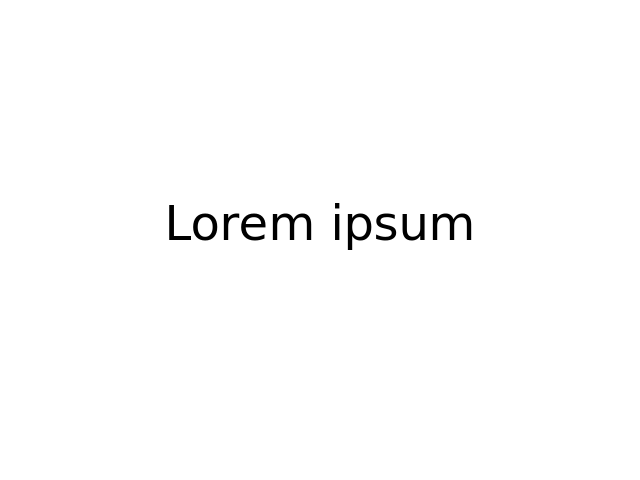
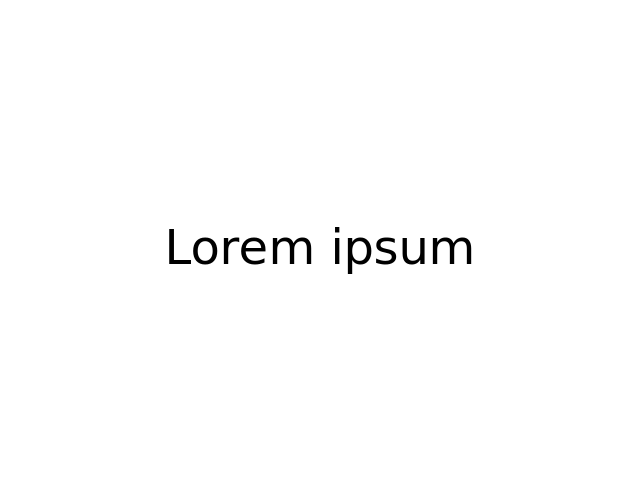
Center text, regenerate images and update README.

Changed region(s): [[0.25, 0.4375, 0.75, 0.5625]]

diff --git a/index.js b/index.js
@@ -55,14 +55,16 @@ const textColor = invertColor(options.red, options.green, options.blue)
 const canvas = createCanvas(width, height)
 const context = canvas.getContext('2d')
 
+const fontSize = height / 10
+
 context.fillStyle = color
 context.fillRect(0, 0, width, height)
 context.fillStyle = textColor
-context.font = `${height / 10}px ${options.font}`
+context.font = `${fontSize}px ${options.font}`
 
 const textSize = context.measureText(options.text)
 
-context.fillText(options.text , (canvas.width / 2) - (textSize.width / 2), (canvas.height / 2))
+context.fillText(options.text , (canvas.width / 2) - (textSize.width / 2), (canvas.height / 2) + (fontSize / 2))
 
 const buffer = canvas.toBuffer('image/png')
 fs.writeFileSync(options.output, buffer)

diff --git a/README.md b/README.md
@@ -95,12 +95,12 @@ Example
 Executing this (all-default parameters, except `--output`/`-o` or equivalent parameters for the generator function):
 
 ```bash
-generate-placeholder-image -o ./expamples/image.png
+generate-placeholder-image -o ./examples/image.png
 ```
 
 produces:
 
-![image.png](./examples/image.png)
+![image.png](https://raw.githubusercontent.com/thormeier/generate-placeholder-image/main/examples/image.png)
 
 ---
 
@@ -112,7 +112,7 @@ generate-placeholder-image -f Times -o ./examples/times.png
 
 produces this:
 
-![times.png](./examples/times.png)
+![times.png](https://raw.githubusercontent.com/thormeier/generate-placeholder-image/main/examples/times.png)
 
 ---
 
@@ -124,4 +124,4 @@ generate-placeholder-image -w 300 -h 150 -r 255 -g 255 -b 0 -t 'Hello, World!' -
 
 produces this:
 
-![hello-world.png](./examples/hello-world.png)
+![hello-world.png](https://raw.githubusercontent.com/thormeier/generate-placeholder-image/main/examples/hello-world.png)
